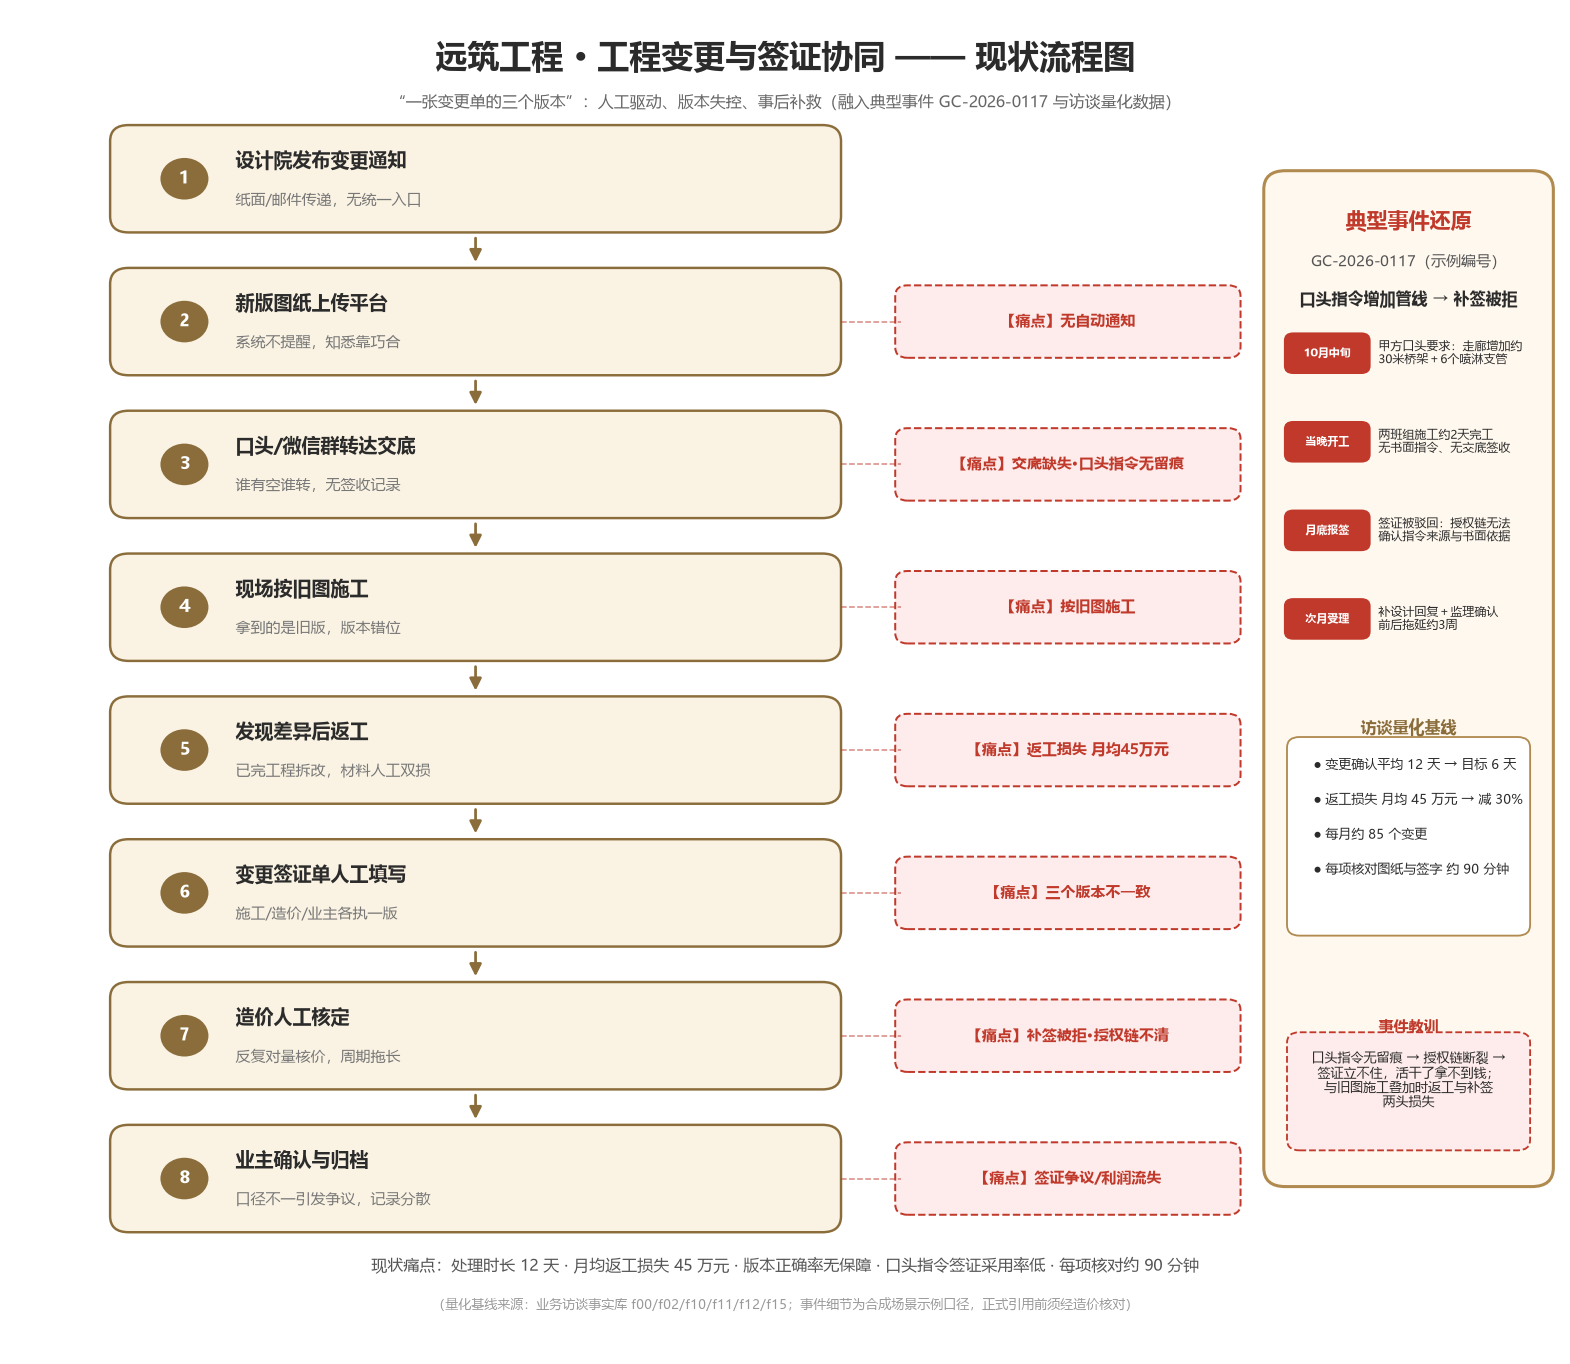
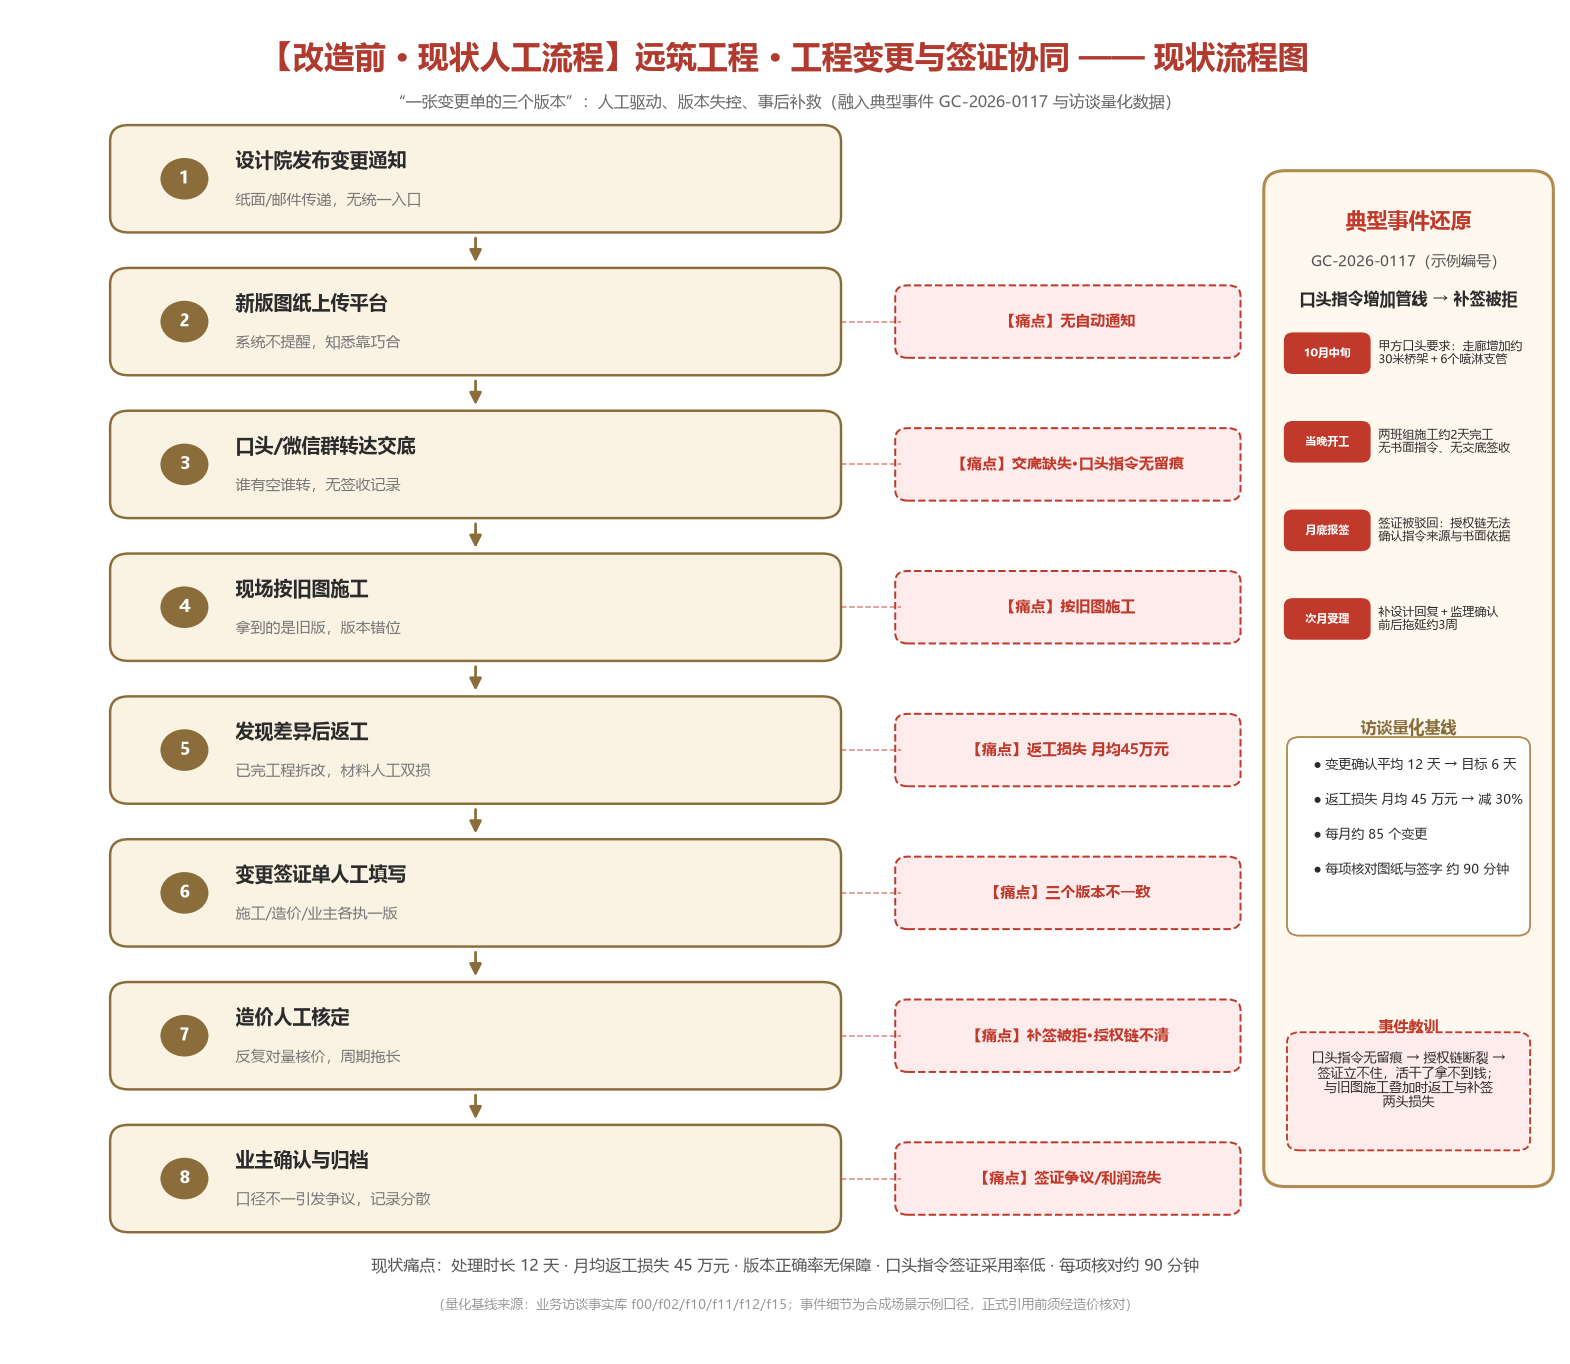
docs(construction-change): 流程图标题明示改造前/改造后，README 显式标注两图区别

Changed region(s): [[0.1561, 0.0308, 0.8427, 0.0616]]

diff --git a/output/gen_after_flow.py b/output/gen_after_flow.py
@@ -1,0 +1,73 @@
+# -*- coding: utf-8 -*-
+"""改造后（数智化）流程图：与 03 改造前同构，绿色主题，标题明示【改造后】"""
+import matplotlib
+matplotlib.use("Agg")
+import matplotlib.pyplot as plt
+from matplotlib.patches import FancyBboxPatch, FancyArrowPatch, Circle
+
+plt.rcParams["font.sans-serif"] = ["Microsoft YaHei", "SimHei"]
+plt.rcParams["axes.unicode_minus"] = False
+
+GREEN_D = "#1E7145"; GREEN_B = "#2E8B57"; MINT = "#E8F3EC"; DARK = "#1F3A2E"
+
+nodes = [
+    ("1", "设计变更统一数字入口", "平台唯一权威版本，自动登记与编号", ""),
+    ("2", "AI 比对差异与影响识别", "新旧图自动比对，输出工序/工程量/造价影响", "【收益】影响提前暴露"),
+    ("3", "交底任务自动生成与推送", "按角色/工序定向推送，App 消息触达", "【收益】交底 100% 触达"),
+    ("4", "现场移动端签收确认", "未签收自动升级提醒（保留人工确认）", "【收益】版本正确率保障"),
+    ("5", "AI 起草变更签证单", "引用变更与工程量数据，版本唯一、来源可溯", "【收益】返工大幅下降"),
+    ("6", "多方在线协同评审", "造价核定、质量安全审查留痕（保留人工审批）", "【收益】签证单版本一致"),
+    ("7", "电子确认与自动归档", "电子签章确认，自动关联变更与台账", ""),
+    ("8", "数据看板与持续改进", "五项指标实时可测，反馈沉淀进规则库", "【收益】指标基线可测可控"),
+]
+
+fig, ax = plt.subplots(figsize=(14.5, 12.5), dpi=110)
+ax.set_xlim(0, 100); ax.set_ylim(0, 100); ax.axis("off")
+fig.patch.set_facecolor("white")
+
+ax.text(50, 96.5, "【改造后 · 数智化流程】远筑工程 · 工程变更与签证协同 —— 数智化转型后流程图",
+        ha="center", va="center", fontsize=20, fontweight="bold", color=GREEN_D)
+ax.text(50, 93.2, "“数据驱动 + AI 辅助 + 人工把关”：版本唯一、交底必达、签证同源、留痕可审计（权限边界与人工确认予以保留）",
+        ha="center", va="center", fontsize=10.5, color="#666666")
+
+top_y, bot_y = 87.5, 13.0
+ys = [top_y - i * (top_y - bot_y) / 7 for i in range(8)]
+
+for i, (num, title, sub, gain) in enumerate(nodes):
+    y = ys[i]
+    box = FancyBboxPatch((7, y - 3.4), 46, 6.8,
+                         boxstyle="round,pad=0.6,rounding_size=1.2",
+                         fc=MINT, ec=GREEN_B, lw=1.6)
+    ax.add_patch(box)
+    c = Circle((11.2, y), 1.55, fc=GREEN_B, ec="none")
+    ax.add_patch(c)
+    ax.text(11.2, y, num, ha="center", va="center", fontsize=11,
+            fontweight="bold", color="white")
+    ax.text(14.5, y + 1.35, title, ha="left", va="center",
+            fontsize=12.5, fontweight="bold", color=DARK)
+    ax.text(14.5, y - 1.6, sub, ha="left", va="center",
+            fontsize=9.5, color="#777777")
+    if i < 7:
+        ax.add_patch(FancyArrowPatch((30, y - 4.2), (30, ys[i + 1] + 4.2),
+                                     arrowstyle="-|>", mutation_scale=16,
+                                     color=GREEN_B, lw=1.8))
+    if gain:
+        gb = FancyBboxPatch((57.5, y - 2.3), 21.5, 4.6,
+                            boxstyle="round,pad=0.4,rounding_size=1.0",
+                            fc="white", ec=GREEN_B, lw=1.2, linestyle=(0, (4, 3)))
+        ax.add_patch(gb)
+        ax.text(68.2, y, gain, ha="center", va="center",
+                fontsize=10.5, fontweight="bold", color=GREEN_D)
+        ax.add_patch(FancyArrowPatch((53.8, y), (57.1, y),
+                                     arrowstyle="-|>", mutation_scale=12,
+                                     color=GREEN_B, lw=1.3, linestyle=(0, (3, 2))))
+
+ax.text(50, 8.2, "目标：变更处理时长 ↓50%+ · 版本错位返工 ↓80%+ · 签证单版本不一致归零 · 复核成本可视可算",
+        ha="center", va="center", fontsize=11.5, color=GREEN_D, fontweight="bold")
+ax.text(50, 5.4, "（数字化节点依据《需求定义文档》R1-R6 改造方向设计；量化目标与 AC-01～AC-10 验收标准同口径）",
+        ha="center", va="center", fontsize=9, color="#999999")
+
+plt.tight_layout()
+plt.savefig("docs/construction-change/04-digitized-process-flow.png",
+            bbox_inches="tight", facecolor="white", dpi=110)
+print("saved 04")

diff --git a/output/redraw_before_flow.py b/output/redraw_before_flow.py
@@ -27,8 +27,8 @@ ax.set_xlim(0, 100); ax.set_ylim(0, 100); ax.axis("off")
 fig.patch.set_facecolor("white")
 
 # ---------- 标题 ----------
-ax.text(50, 96.5, "远筑工程 · 工程变更与签证协同 —— 现状流程图",
-        ha="center", va="center", fontsize=21, fontweight="bold", color=DARK)
+ax.text(50, 96.5, "【改造前 · 现状人工流程】远筑工程 · 工程变更与签证协同 —— 现状流程图",
+        ha="center", va="center", fontsize=20, fontweight="bold", color="#B03A2E")
 ax.text(50, 93.2, "“一张变更单的三个版本”：人工驱动、版本失控、事后补救（融入典型事件 GC-2026-0117 与访谈量化数据）",
         ha="center", va="center", fontsize=10.5, color="#666666")
 

diff --git a/docs/construction-change/README.md b/docs/construction-change/README.md
@@ -7,8 +7,8 @@
 | --- | --- | --- | --- |
 | 1 | 业务挖掘报告 | [01-业务挖掘报告.md](./01-业务挖掘报告.md) | 实验室系统生成：业务机会清单、指标基线与价值假设、项目章程与利益相关者地图 |
 | 2 | 行业分析 | [02-行业分析.docx](./02-行业分析.docx) | 建筑行业工程变更与签证协同数智化行业分析（Word 文档） |
-| 3 | 现状流程图 | [03-current-process-flow.png](./03-current-process-flow.png) | 现状人工流程：人工驱动、版本失控、事后补救，标注六大痛点 |
-| 4 | 数智化转型后流程图 | [04-digitized-process-flow.png](./04-digitized-process-flow.png) | 转型后流程：数据驱动 + AI 辅助 + 人工把关，标注六项收益 |
+| 3 | **改造前**流程图（现状 · 人工驱动） | [03-current-process-flow.png](./03-current-process-flow.png) | 改造前现状：纸面/邮件传递、口头交底、旧图施工、人工填单核定，八大环节挂六大痛点；右侧还原典型事件 GC-2026-0117（口头指令→补签被拒），底部为访谈量化基线（12 天 / 45 万 / 85 个 / 90 分钟） |
+| 4 | **改造后**流程图（数智化 · AI 辅助） | [04-digitized-process-flow.png](./04-digitized-process-flow.png) | 改造后数智化流程：统一数字入口→AI 比对→交底推送→移动签收→AI 起草签证→协同评审→电子归档→数据看板，每步挂收益标注，底部目标与验收标准 AC-01～AC-10 同口径 |
 | 5 | 报价单 | [05-报价单.xlsx](./05-报价单.xlsx) | 首期试点（3 个月）打包价 28.6 万元，含实施服务/平台订阅/AI 用量明细与公式合计 |
 | 6 | 设计方案 | [06-设计方案.docx](./06-设计方案.docx) | 工程变更与签证协同 AI 助手设计方案：总体架构、功能设计、权限红线、实施计划与验收标准 |
 | 7 | 典型事件访谈记录 | [07-典型事件访谈记录.txt](./07-典型事件访谈记录.txt) | 对现场施工员林亦舟的 3 轮访谈：口头指令施工 → 补签被拒事件还原、影响量化（12 天周期 / 45 万月损失 / 85 变更 / 90 分钟核对）与改进边界 |
